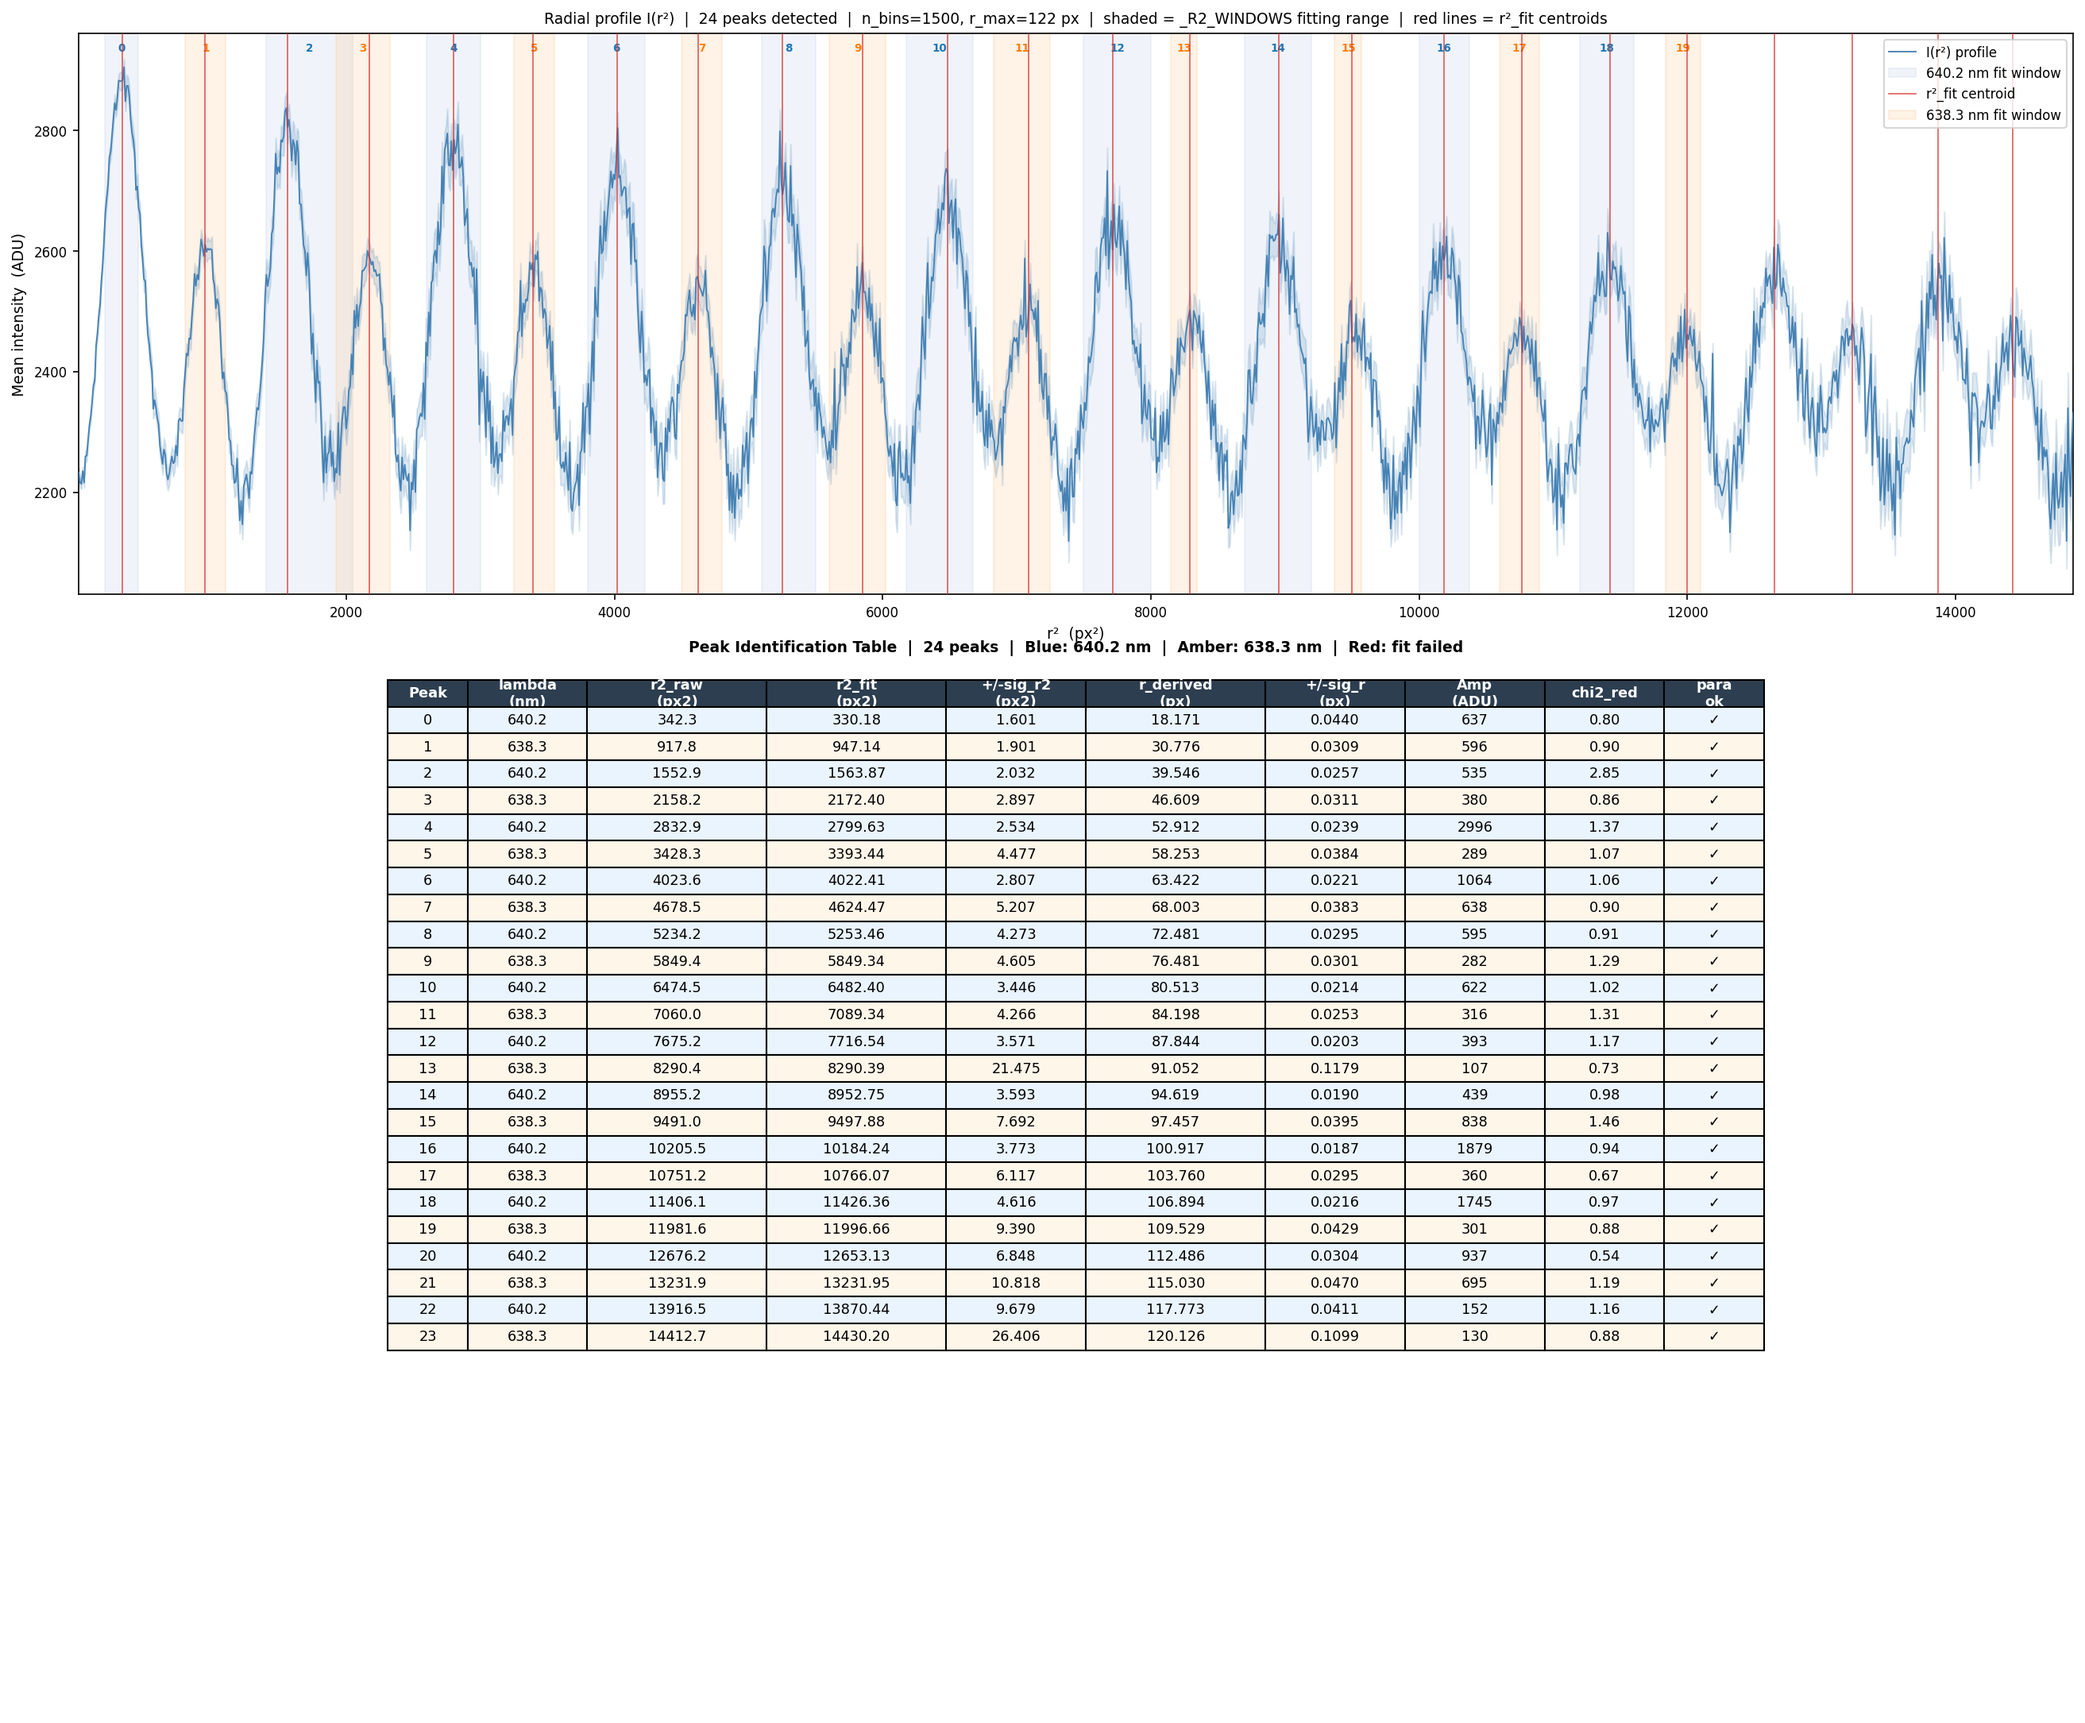
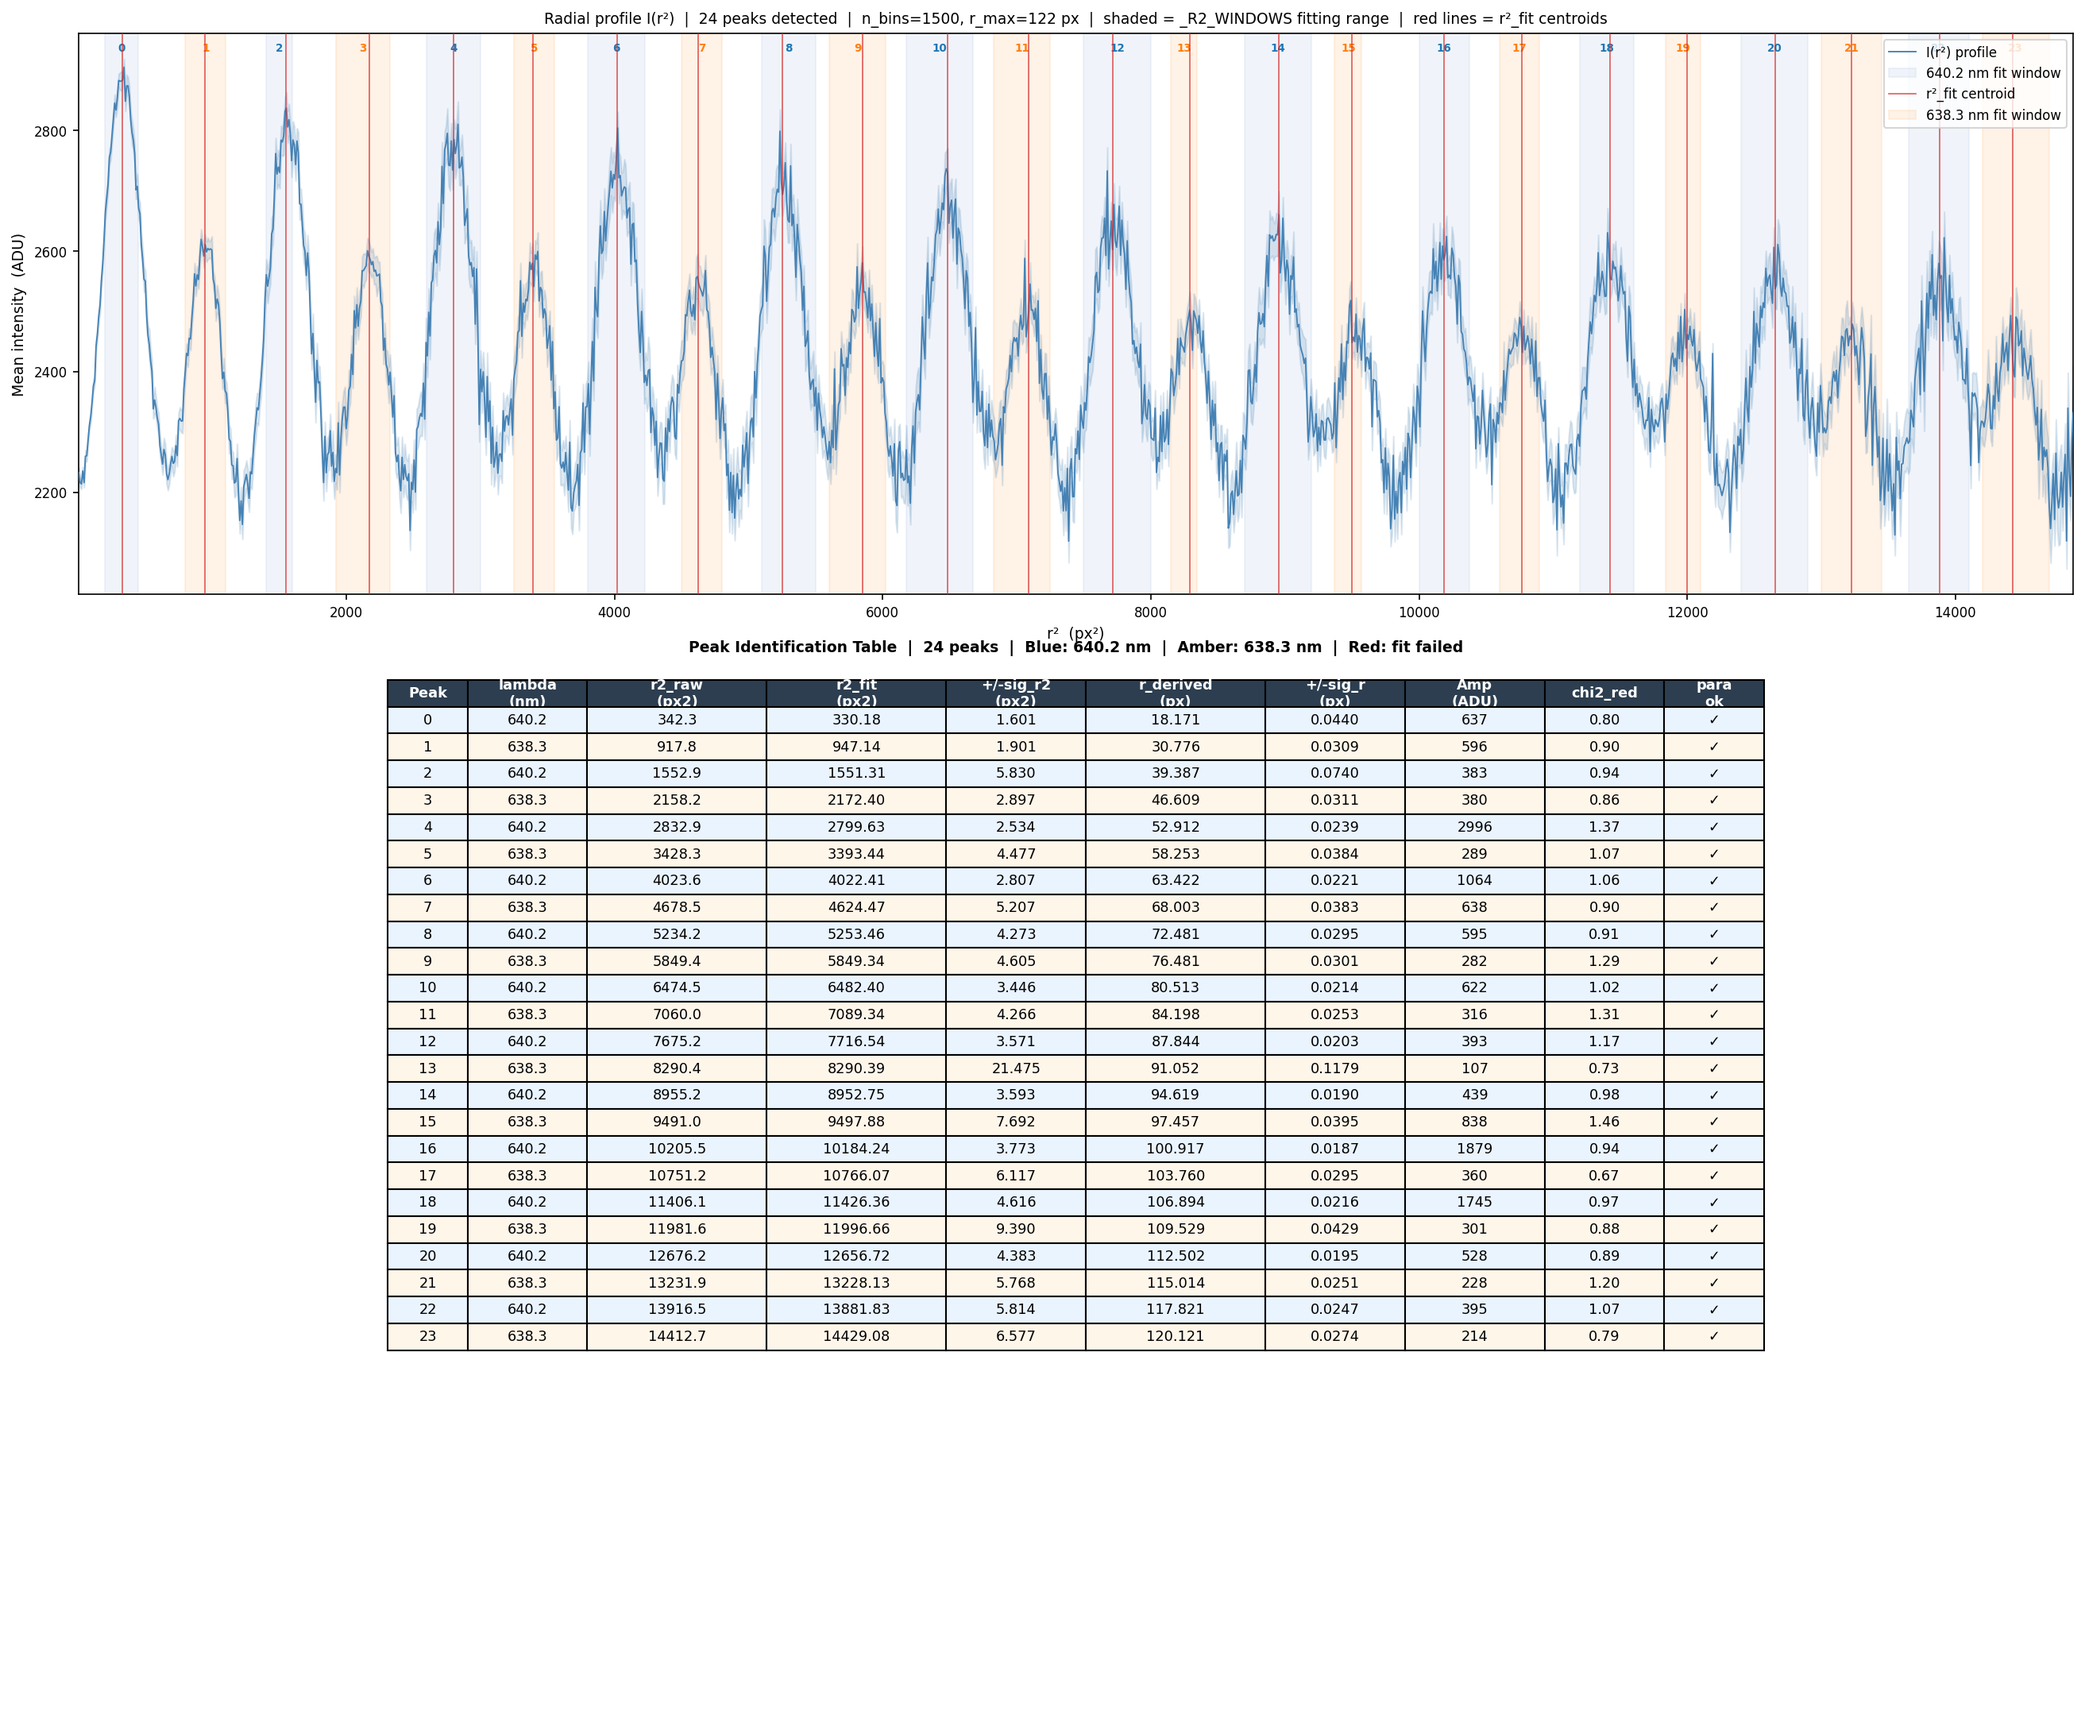
more updates

diff --git a/src/fpi/fpi_cal_lib.py b/src/fpi/fpi_cal_lib.py
@@ -1933,24 +1933,16 @@ def _plot_all_fringe_diagnostics_r2(
 
         # ── Title ────────────────────────────────────────────────────────────
         lam_str = "640.2" if k % 2 == 0 else "638.3"
-        hw_str  = f"[{r2_lo_w:.0f},{r2_hi_w:.0f}]"
         if fit_ok:
-            r_derived = float(np.sqrt(r2_fit)) if r2_fit > 0 else float("nan")
-            chi2_str  = f"{reduced_chi2:.2f}" if np.isfinite(reduced_chi2) else "nan"
-            rms_str   = f"{para_rms:.2f}" if np.isfinite(para_rms) else "nan"
-            tag_para  = f"para ok rms={rms_str}" if para_ok else "para FAIL"
-            tag_gauss = "gauss ok" if gauss_ok else "gauss FAIL"
+            chi2_str = f"{reduced_chi2:.2f}" if np.isfinite(reduced_chi2) else "—"
             title = (
-                f"Peak {k}  λ={lam_str} nm  hw={hw_str}\n"
-                f"r²={r2_fit:.1f}±{sigma_r2_fit:.1f}  r={r_derived:.3f}  χ²={chi2_str}\n"
-                f"{tag_para}  {tag_gauss}"
+                f"Peak {k}  λ={lam_str} nm\n"
+                f"r²_fit={r2_fit:.1f} px²   χ²={chi2_str}"
             )
             title_color = "#1a6e2e"
         else:
             title = (
-                f"Peak {k}  λ={lam_str} nm  hw={hw_str}  FAILED\n"
-                f"{'para ok' if para_ok else 'para FAIL'}  "
-                f"{'gauss ok' if gauss_ok else 'gauss FAIL'}"
+                f"Peak {k}  λ={lam_str} nm  FAILED"
             )
             title_color = "#b22222"
 

diff --git a/src/processing/run_windcube_calibration.py b/src/processing/run_windcube_calibration.py
@@ -172,17 +172,13 @@ _R2_WINDOWS.update({
     10: (  6175,   6675),   # P10 640.2 nm  ctr≈6441
     11: (  6825,   7250),   # P11 638.3 nm  ctr≈7021
     12: (  7500,   8000),   # P12 640.2 nm  ctr≈7672
-    13: (  8147,   8347),   # P13 638.3 nm  ctr≈8247
+    13: (  8147,   8367),   # P13 638.3 nm  ctr≈8247  [right +20 px²]
     14: (  8700,   9200),   # P14 640.2 nm  ctr≈8902
     15: (  9372,   9572),   # P15 638.3 nm  ctr≈9472
     16: (  10000,  10375),   # P16 640.2 nm  ctr≈10132
     17: ( 10600,  10900),   # P17 638.3 nm  ctr≈10698
     18: ( 11200,  11600),   # P18 640.2 nm  ctr≈11363
     19: ( 11840,  12100),   # P19 638.3 nm  ctr≈11919
-    20: ( 12400,  12900),   # P20 640.2 nm  ctr≈12653  [estimated from profile]
-    21: ( 13000,  13450),   # P21 638.3 nm  ctr≈13232  [estimated from profile]
-    22: ( 13650,  14100),   # P22 640.2 nm  ctr≈13870  [estimated from profile]
-    23: ( 14200,  14700),   # P23 638.3 nm  ctr≈14430  [estimated from profile]
 })
 
 # ── Tolansky two-line analysis ───────────────────────────────────────────────
